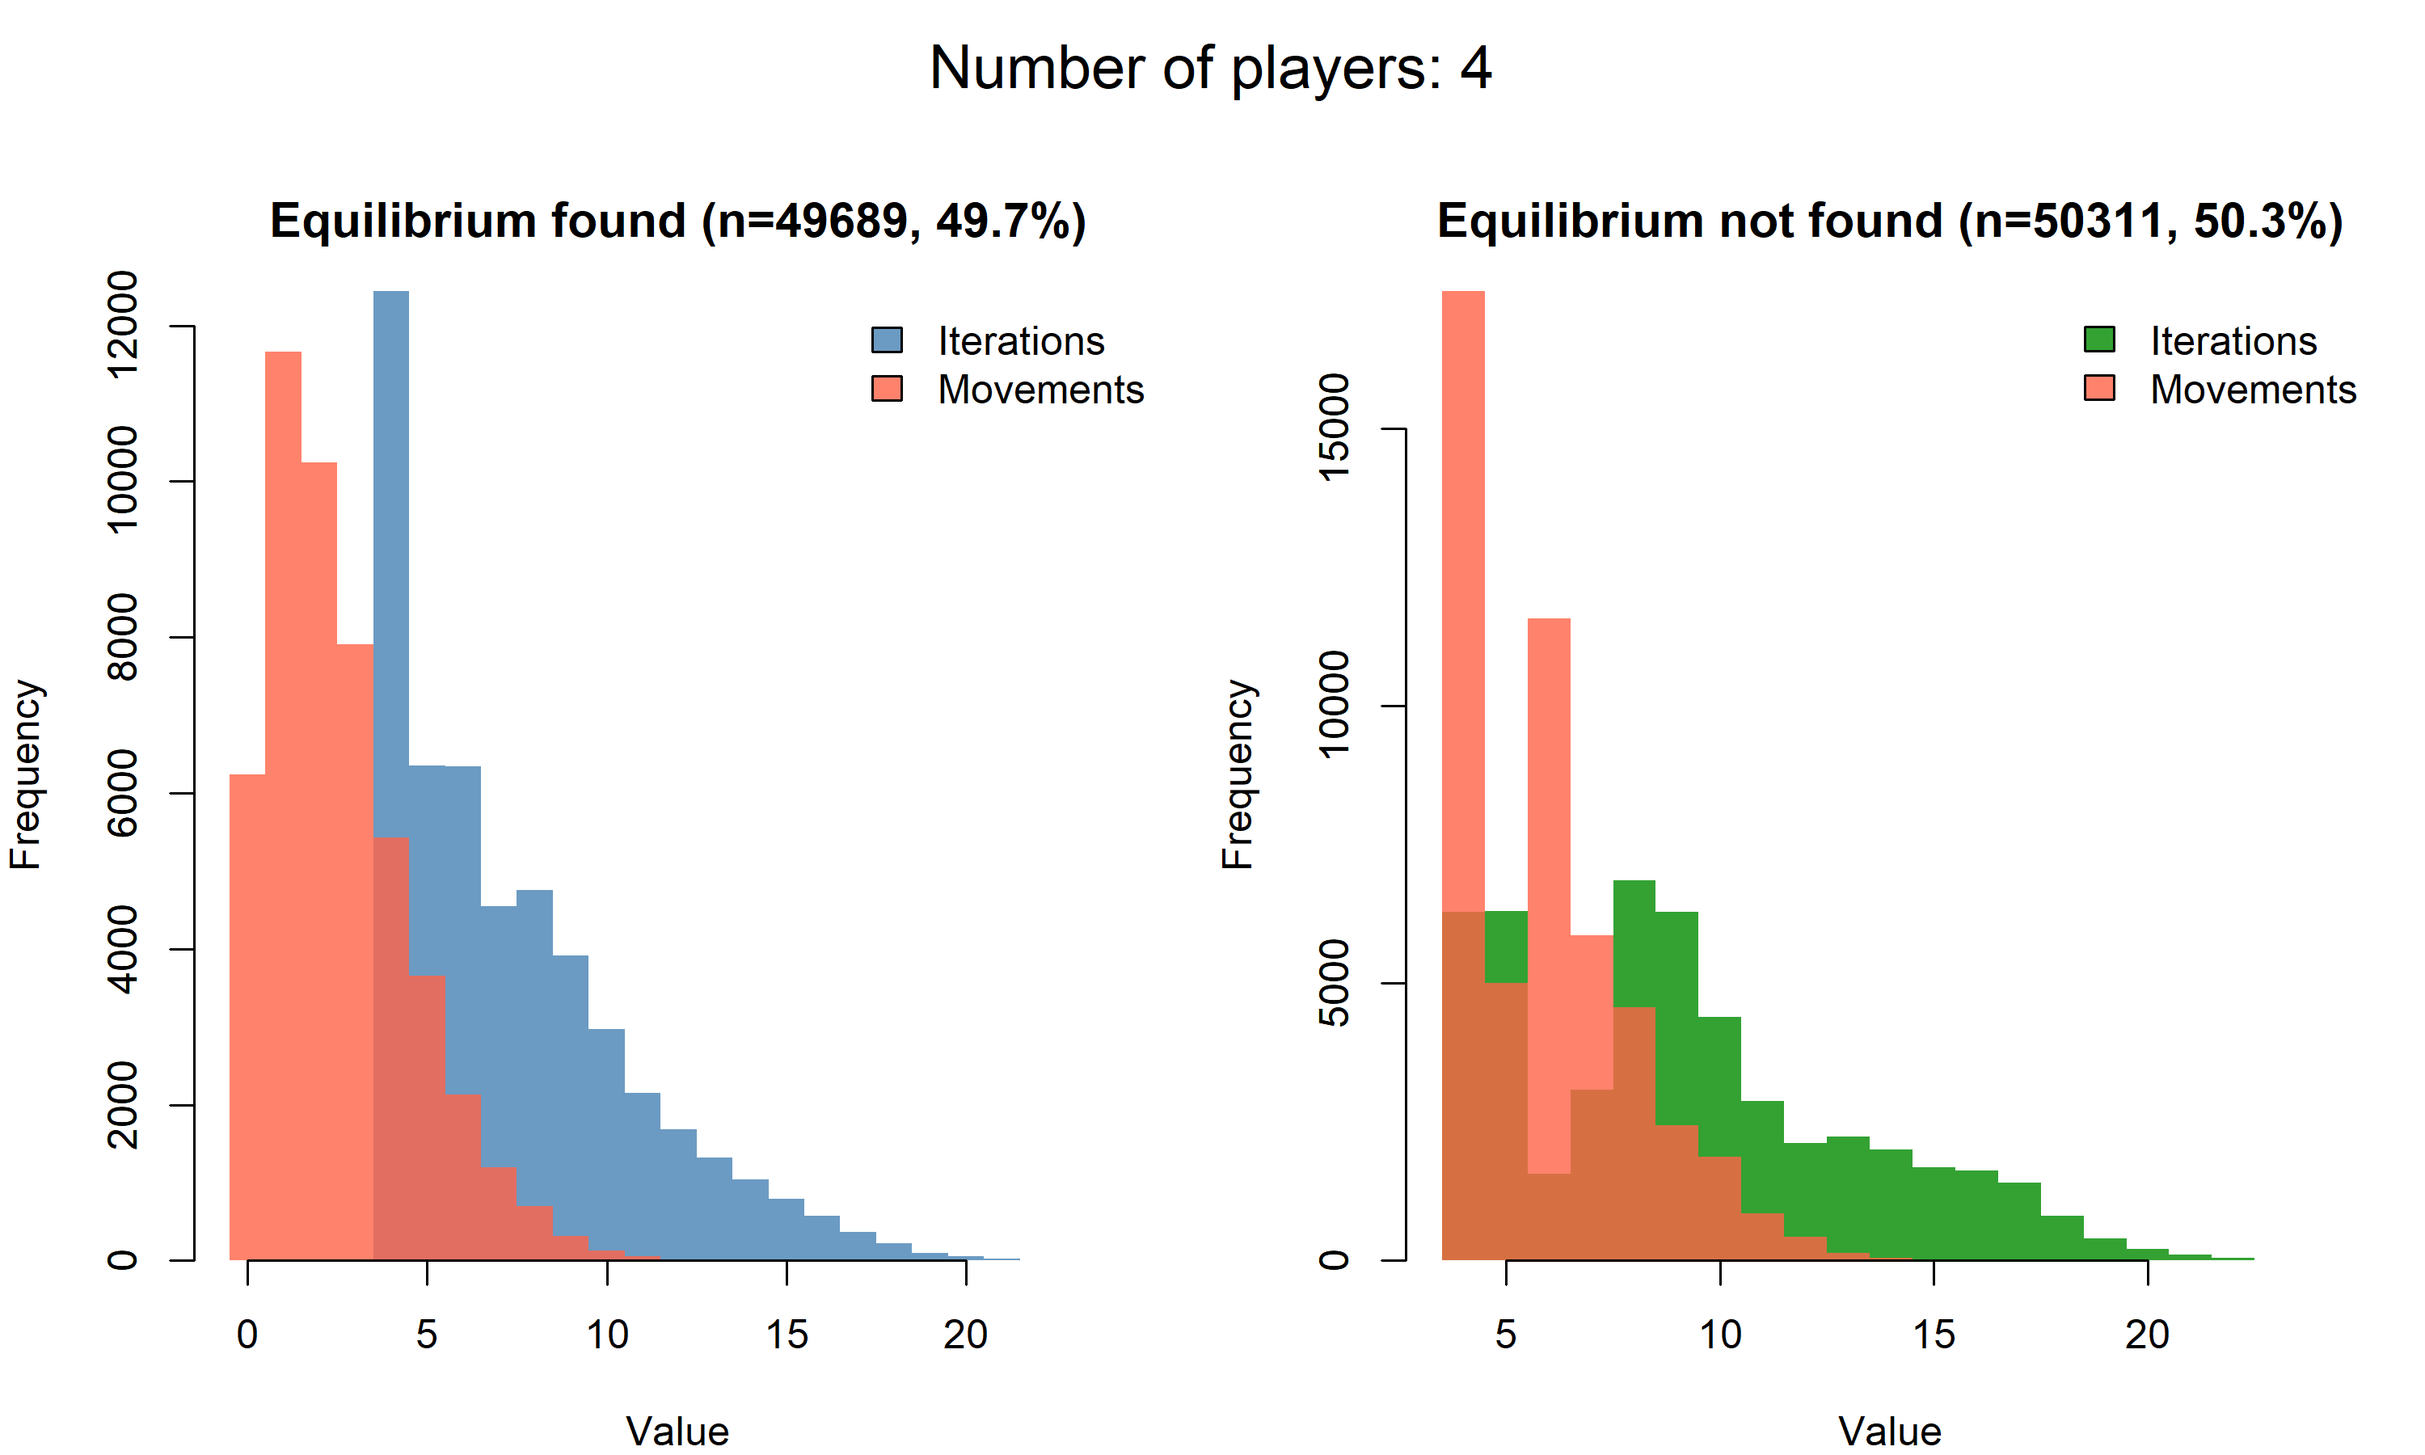
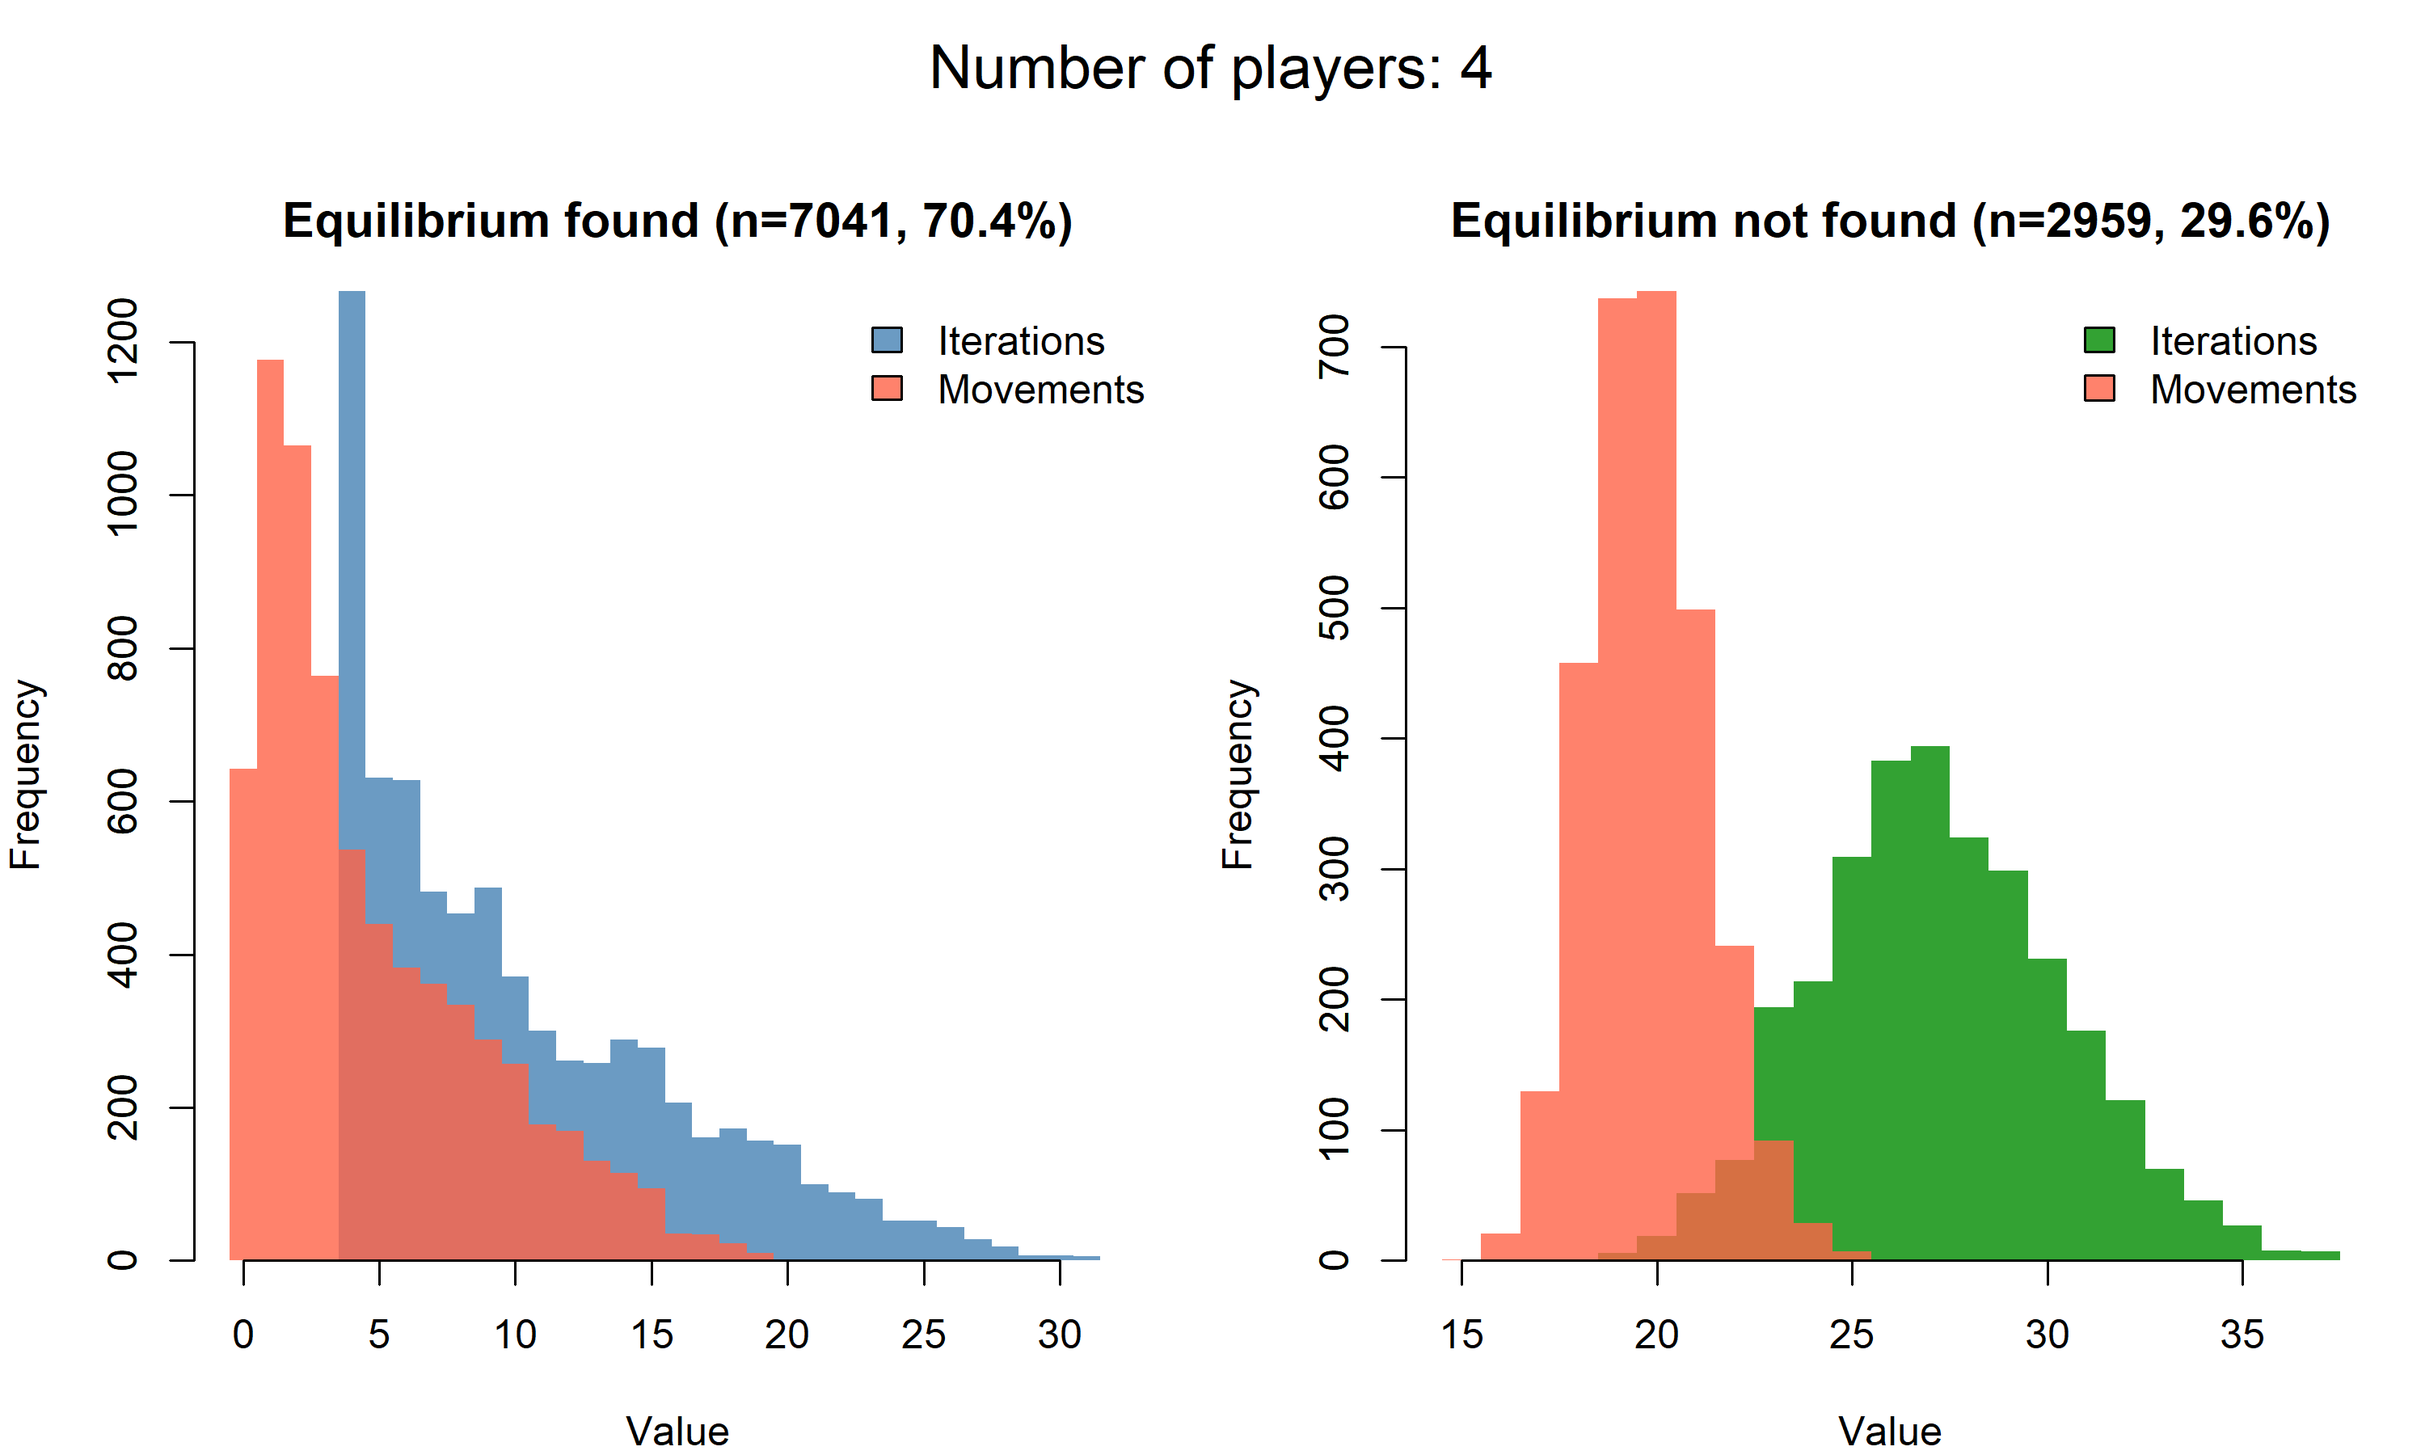
Enhance README for clarity on best-response dynamics; update simulation parameters and results tracking. Add new plots for player counts 3 to 9, remove 12-player plot, and adjust iteration metrics in game functions.

diff --git a/README.md b/README.md
@@ -43,21 +43,25 @@ To investigate best-response dynamics, we simulate an iterative play process in 
 
 **Initialization:**
 - Start at a fixed initial strategy profile. In our code, we use the profile where every player initially plays strategy 0 as the starting point. Given the fact that the utilities are random, this profile is not special.
+- Initialize a logical vector that indicates whether each player agrees with the strategy. Set all values to `FALSE` initially.
+- Maintain a set to record all visited strategy profiles to detect cycles and track explored profiles.
 
-- Initialize a logical vector that indicates whether each player agrees with the strategy. Set all values to `FALSE` initially.  
+**Best-Response Update Loop:**
+- Repeatedly allow players to update their strategies one at a time:
+  - For each iteration, choose the first player that doesn’t agree and evaluate whether that player can improve their payoff by switching to their other strategy. Since there are only two strategies (0 or 1), this check is straightforward: we compare the player's payoff in the current profile vs. what it would be if they flipped their strategy.
+  - If switching strategies yields a strictly higher payoff for that player (i.e., it’s a best response), then update the player’s strategy to that best response, change the `agree` status to `FALSE` for all other players, and add the new profile to the set of visited profiles. If switching does not improve that player’s payoff (i.e., the current strategy is already a best response or tied as the best), then the player stays with the current strategy, changes its `agree` status to `TRUE`, and leaves the other players’ statuses unchanged.
+- Continue to the next player and repeat the check.
 
-- **Best-Response Update Loop**: Repeatedly allow players to update their strategies one at a time:
-  - For each iteration, choose the first player that doesn´t agree and evaluate whether that player can improve their payoff by switching to their other strategy. Since there are only two strategies (0 or 1), this check is straightforward: we compare the player's payoff in the current profile vs. what it would be if they flipped their strategy.
-  - If switching strategies yields a strictly higher payoff for that player (i.e., it’s a best response), then update the player’s strategy to that best response and change the `agree` status to `FALSE` for all other players. If switching does not improve that player’s payoff (i.e., the current strategy is already a best response or tied as the best), then the player stays with the current strategy, changes its `agree` status to `TRUE`, and leaves the other players’ statuses unchanged.
-- Continue to the next player and repeat the check. 
-
-- **Termination Conditions**: The iterative process continues until one of two stopping conditions is met:
+**Termination Conditions:**
+- The iterative process continues until one of two stopping conditions is met:
   - **Convergence to Equilibrium**: If in a full cycle of updates no player changes their strategy, that means every player is best-responding to the others. At this point, the profile is a Nash equilibrium, and the dynamic has converged. We record that a PSNE was found.
-  - **Cycle Detection**: If the process produces a strategy profile that has occurred previously, we have entered a cycle. In other words, the dynamics are now repeating a prior state and will continue to loop endlessly without finding an equilibrium. When a repeat profile is detected, we terminate the simulation and record that it failed to converge (cyclic behavior). In practice, our code keeps a history (set) of visited profiles to quickly check for repetition. Because the game has a finite number of profiles ($2^n$), a cycle detection also implicitly serves as a safeguard against infinite loops—if no equilibrium exists, Poincaré recurrence guarantees some profile will eventually repeat.
+  - **Cycle Detection and Restart**: If the process encounters a strategy profile previously visited within the current trajectory, a cycle is detected. Instead of terminating, the algorithm selects a new, previously unvisited strategy profile (i.e., one not in the set of visited profiles from any trajectory) and restarts the best-response update loop from this profile, resetting the `agree` vector and trajectory-specific history. If no unvisited profiles remain (i.e., all $2^n$ profiles have been explored across one or more trajectories), the simulation terminates, concluding that no PSNE exists. In practice, our code maintains a history (set) of visited profiles across all trajectories to track explored profiles and ensure finite termination.
 
-- **Iteration Counting**: Throughout the loop, we count how many individual strategy updates (iterations) occur. This gives a measure of how long the dynamics ran before stopping. Convergence in very few iterations might indicate the game had an "easy" equilibrium that was quickly reached, whereas a long run that ends in a cycle indicates the dynamic wandered a lot without finding a stable point.
+**Iteration Counting:**
+- Throughout the loop, we track two metrics: *iterations* (the number of times a player is asked whether they want to change their strategy) and *movements* (the number of times a player actually changes their strategy). These metrics provide insight into the dynamics' duration and activity before stopping. A low iteration count with few movements might indicate an "easy" equilibrium reached quickly, whereas a high iteration count with many movements suggests the dynamic explored extensively without finding a stable point (PSNE).
 
-After setting up this process for one game, we repeat the simulation across many independent random games for each value of $n$ we are interested in. 
+**Simulation Across Games:**
+- After setting up this process for one game, we repeat the simulation across many independent random games for each value of $n$ we are interested in.
 
 ### Code
 
@@ -66,35 +70,28 @@ In the R code, the logic described above is implemented with the help of two scr
 - `functions.R`: This file contains helper functions for setting up and evaluating the game. For instance, it likely has a function to generate random payoff matrices for all players given $n$, and functions to compute a player's best response or to check if a profile is a NE. It may also contain the function that performs one iteration of the best-response update (choosing a player and possibly switching their strategy).
 - `best_response.R`: This is the main simulation script. It uses the functions defined in `functions.R` to run the best-response dynamics. It initializes the game, runs the iterative loop with the update rules, and monitors the stopping conditions. This script is also responsible for running multiple simulations (for statistical analysis) and recording the outcomes. In addition, `best_response.R` produces visualizations of the results and saves them to files.
 
-## Results
+## Results: 
 
-We analyzed the outcomes of the best-response dynamics over 100000 games and different numbers of players $n$. The findings align with expectations from game theory: as $n$ grows, the dynamics have a harder time finding an equilibrium. More formally, larger games are less likely to possess (and converge to) a pure Nash equilibrium, and the process tends to take more iterations to either find an equilibrium or to conclude it is cycling. Here we summarize the key observations:
-
-### Frequency of Convergence
-
-For small games, the best-response dynamics often converges to a PSNE. For example, with $n=2$ players (each with 2 strategies), the algorithm finds a PSNE in 87.3% of the games, while with $n=12$ players, less than 1% of the games converge to a PSNE. Note that the algorithm cannot conclude there are no PSNEs; it only determines that no PSNE was found along the trajectory. 
-
-### Iterations Distribution
-
-Along with a decreased chance of success, larger games required more update steps on average before the simulation stopped. For $n=2$, if an equilibrium existed, it was found very quickly (In 2 to or 4 iterations of play). Even cycles in 2-player games were short (in a 2-player game with no equilibrium, the two players simply alternate their moves, leading to an immediate 2-cycle). In contrast, for $n=10$ players, the sequences of best-response moves before detecting a cycle were typically much longer. We observed a wide spread in the number of iterations for larger $n$. Some runs went on for more than a hundred of before a repeat profile was seen. The distribution of iteration counts shifted toward higher values as $n$ grew. This indicates that when an equilibrium is not quickly reachable, the dynamics can wander through many states—reflecting the potential exponential complexity of the state space. Below we provide example histograms of the number of iterations for different $n$ values.
+We analyzed the best-response dynamics over 10,000 games across varying numbers of players $n$, focusing on the number of iterations required for the simulation to terminate. As $n$ increases, the dynamics generally require more update steps before stopping, reflecting the growing complexity of the state space. For $n=2$, when an equilibrium exists, it is typically found within 2 to 4 iterations, and cycles in games without an equilibrium are short (e.g., a 2-cycle where players alternate moves). In contrast, for $n=10$, the sequences of best-response moves are significantly longer, often exceeding 100 iterations before a repeat profile is detected. The distribution of iteration counts shifts toward higher values with larger $n$, indicating that the dynamics can explore many states when an equilibrium is not quickly reachable. Example histograms of iteration counts for different $n$ values are provided below.
 
 ### Example Plots
 
-The repository includes plots visualizing these results for various $n$. In the `plots/` directory. Each plot corresponds to 100000 simulations at a given number of players and shows the fraction of runs that converged to a PSNE, along with a histogram of the iteration counts. Below are the plots for $n=2$, $n=4$, and $n=10$, illustrating the trends described:
+The repository includes plots visualizing these results for various $n$. In the `plots/` directory. Each plot corresponds to 10,000 simulations at a given number of players and shows the fraction of runs that converged to a PSNE, along with a histogram of the iteration counts. Below are the plots for $n=2$, $n=4$, and $n=10$, illustrating the trends described:
 
 - For $n=2$ players: The plot shows that almost all runs converged, usually in very few iterations.  
   ![Simulation outcomes for n=2](plots/game_results_2_players.png)  
   **Figure 1**: Simulation outcomes for $n=2$.
 
-- For $n=4$ players: The plot illustrates a mix of outcomes. Many runs still found an equilibrium, but a significant number resulted in cycles. The distribution is about fifty-fifty. The iteration count histogram is more spread out compared to $n=2$, indicating some games took longer to resolve.  
+- For $n=4$ players: The plot illustrates a mix of outcomes. Many runs still found an equilibrium, but a significant number resulted in cycles. The distribution is about seventy-thirty. The iteration count histogram is more spread out compared to $n=2$, indicating some games took longer to resolve.  
   ![Simulation outcomes for n=4](plots/game_results_4_players.png)  
   **Figure 2**: Simulation outcomes for $n=4$.
 
-- For $n=12$ players: The plot highlights that convergence was very rare. Most simulations ended in cycling behavior, and the iteration counts were often quite large before a cycle was detected.  
-  ![Simulation outcomes for n=10](plots/game_results_12_players.png)  
-  **Figure 3**: Simulation outcomes for $n=12$. 
+- For $n=10$ players: The plot indicates that convergence was challenging. Most simulation iteration counts exceeded 1,000, even in games where an equilibrium exists. Interestingly, the proportion of games with an equilibrium does not drop significantly. As $n$ increases from 4 to 10, the percentage remains around 65% without a clear decreasing trend.
 
-These plots confirm that as the game grows more complex (in terms of number of players), finding a stable outcome via naive best-response play becomes significantly less likely and more time-consuming. In summary, small games may reach a stable equilibrium easily, but larger random games often exhibit persistent oscillations with no equilibrium, in line with theoretical expectations.
+  ![Simulation outcomes for n=10](plots/game_results_10_players.png)  
+  **Figure 3**: Simulation outcomes for $n=10$. 
+
+These plots confirm that as the game grows more complex (in terms of number of players), finding a stable outcome via naive best-response play becomes significantly less likely and more time and memory consuming. In summary, small games may reach a stable equilibrium easily, but larger random games often exhibit trajectories with persistent oscillations with no equilibrium, in line with theoretical expectations.
 
 ## Future work
 
